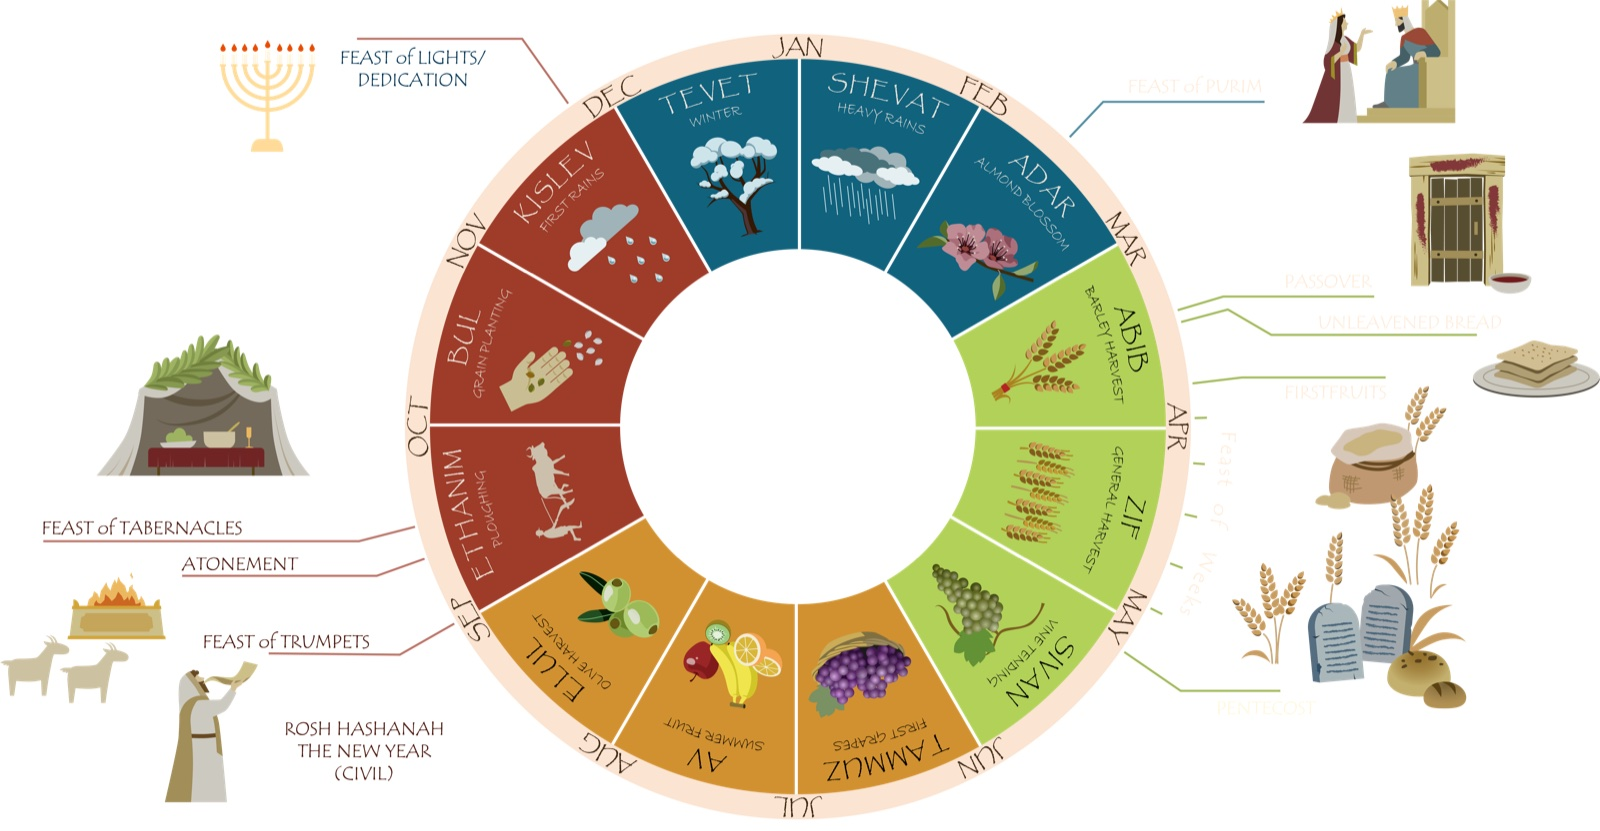
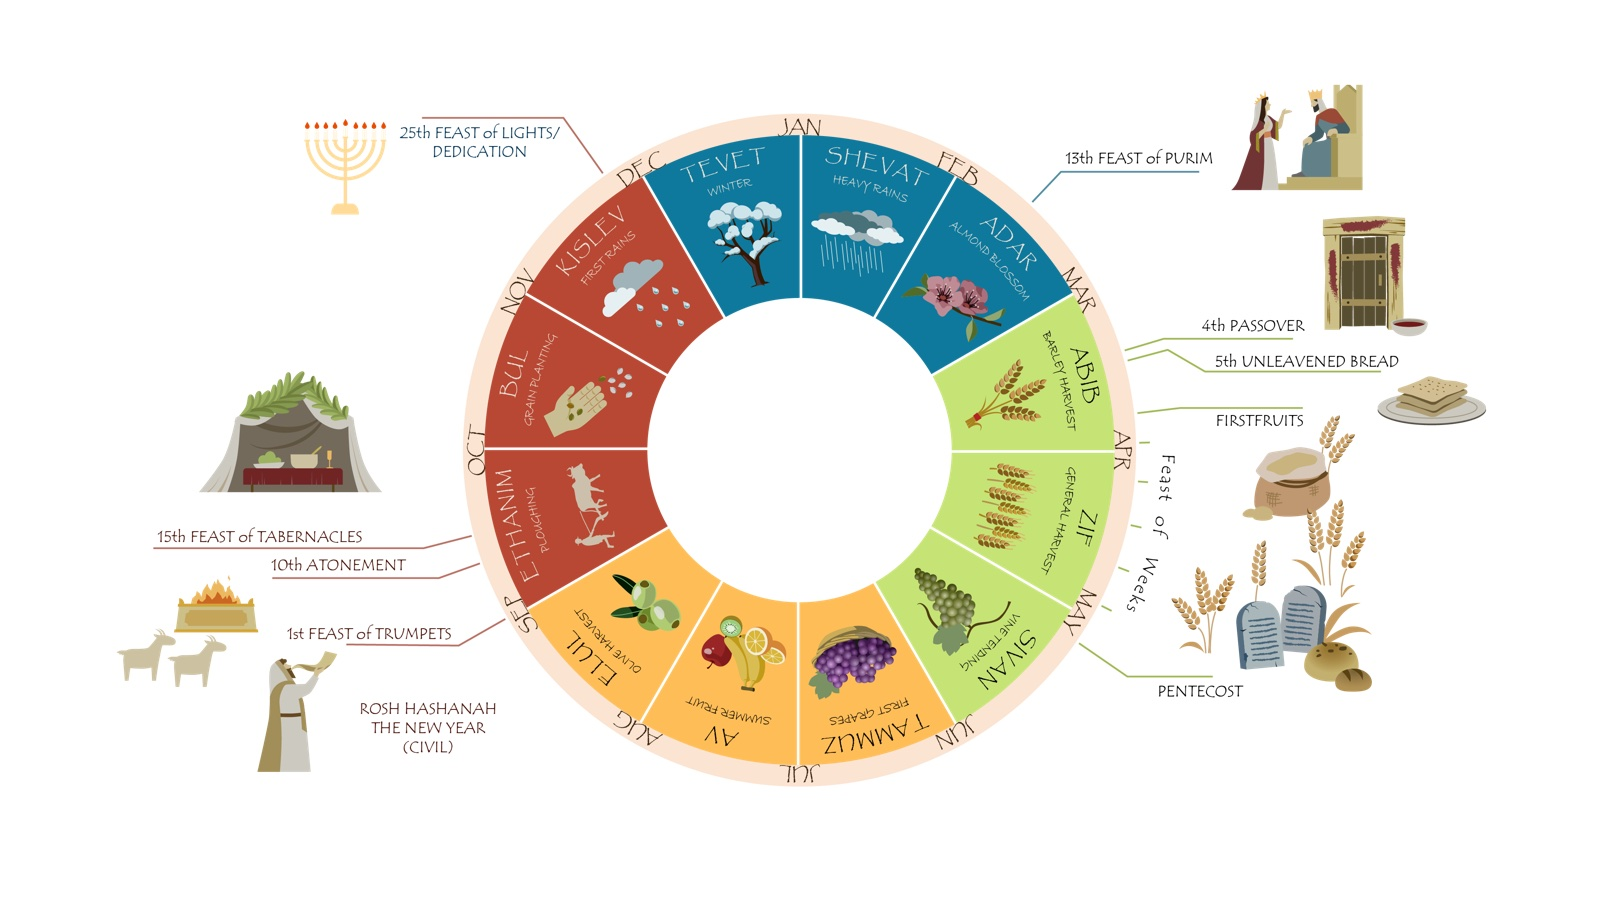
Swap calendar image to version with feast dates visible

diff --git a/content/resources/culture-traditions.md b/content/resources/culture-traditions.md
@@ -78,7 +78,7 @@ Understanding the Bible on its own terms means stepping into the world that prod
 <div id="calendar-lightbox" onclick="this.style.display='none'" style="display:none; position:fixed; inset:0; z-index:9999; background:rgba(0,0,0,0.92); flex-direction:column; align-items:center; justify-content:center; cursor:zoom-out; padding:20px;">
   <div style="color:white; font-size:0.85em; margin-bottom:10px; opacity:0.7;">Tap anywhere to close</div>
   <div style="overflow:auto; max-width:95vw; max-height:85vh; -webkit-overflow-scrolling:touch;" onclick="event.stopPropagation()">
-    <img src="../../images/moedim-calendar-full.png" alt="Biblical Calendar — full resolution" style="max-width: none; width: 2400px; display:block;">
+    <img src="../../images/moedim-calendar-full.png" alt="Biblical Calendar — full resolution" style="max-width: none; width: 3840px; display:block;">
   </div>
 </div>
 
